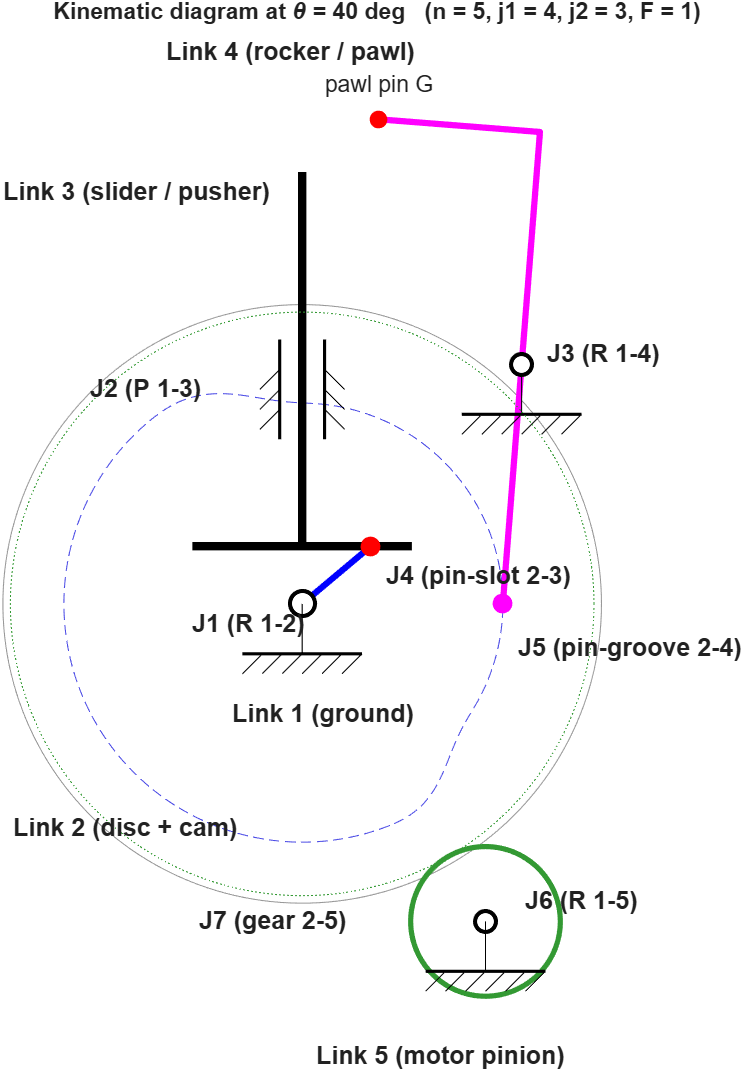
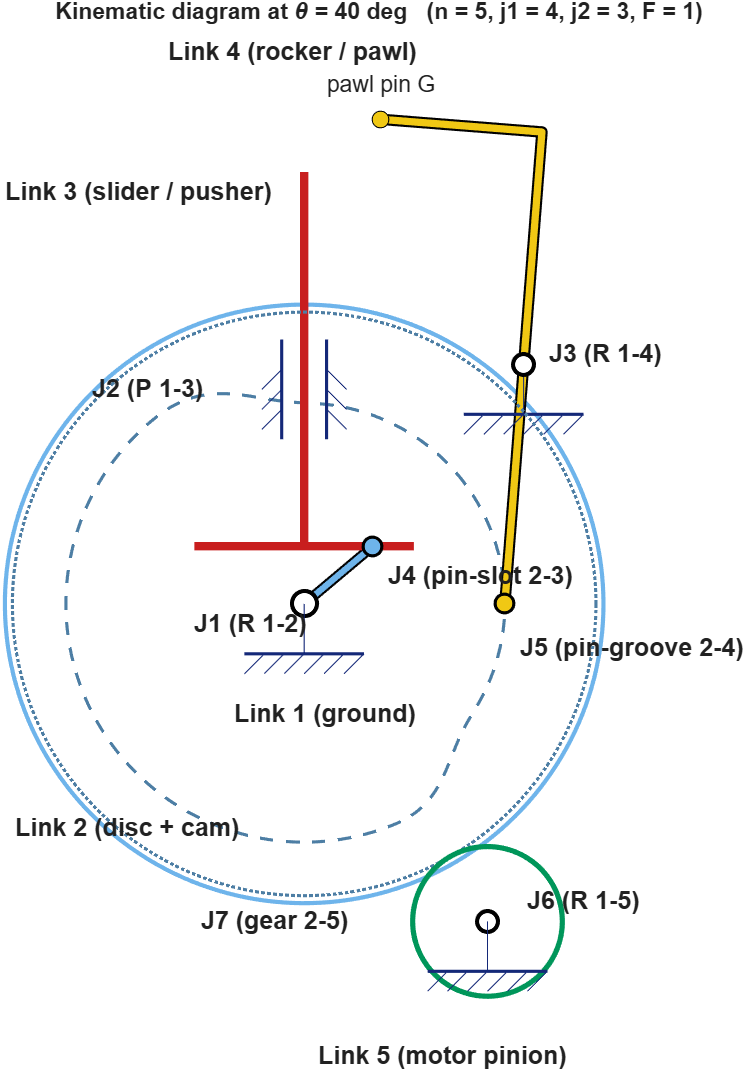
Recolour the Part I kinematic diagram to the as-built part colours

diff --git a/symbolic/kinematic_diagram.m b/symbolic/kinematic_diagram.m
@@ -12,35 +12,41 @@ P = R.P(:,k); T = R.T(:,k); G = R.G(:,k); Hk = R.H(:,k);
 
 f = figure('Position', [100 100 700 900]); theme(f, 'light'); hold on; axis equal off
 tc = linspace(0, 2*pi, 200);
+% Link colours = the colours of the built model (RGB 0..255), same as the Simscape blocks
+cBase = [20 40 120]/255;   cDisc = [110 180 235]/255;   cSlid = [200 30 30]/255;
+cRock = [240 200 20]/255;  cPin  = [0 150 90]/255;
 % Link 2: disc (crank + cam groove)
-plot(mm*p.Rd*cos(tc), mm*p.Rd*sin(tc), 'Color', [0.6 0.6 0.6]);
+plot(mm*p.Rd*cos(tc), mm*p.Rd*sin(tc), 'Color', cDisc, 'LineWidth', 2);
 Cg = [cos(th) -sin(th); sin(th) cos(th)]*R.C;
-plot(mm*Cg(1,:), mm*Cg(2,:), '--', 'Color', [0.3 0.3 0.9]);
-plot(mm*[0 pin(1)], mm*[0 pin(2)], 'b', 'LineWidth', 3);
+plot(mm*Cg(1,:), mm*Cg(2,:), '--', 'Color', cDisc*0.7, 'LineWidth', 1.5);
+plot(mm*[0 pin(1)], mm*[0 pin(2)], 'k', 'LineWidth', 5);                 % dark edge so the pale blue reads on white
+plot(mm*[0 pin(1)], mm*[0 pin(2)], 'Color', cDisc, 'LineWidth', 3);
 % Link 3: slider with horizontal slot; its stem top pushes the coin column
-plot(mm*[0 0], mm*[yS yS + p.stemLen], 'k', 'LineWidth', 4);
-plot(mm*[-p.e - 0.004, p.e + 0.004], mm*[yS yS], 'k', 'LineWidth', 4);
-% Link 4: rocker (pawl)
-plot(mm*[T(1) P(1) Hk(1) G(1)], mm*[T(2) P(2) Hk(2) G(2)], 'm', 'LineWidth', 3);   % "7" hook
-plot(mm*G(1), mm*G(2), 'ro', 'MarkerSize', 8, 'MarkerFaceColor', 'r');
+plot(mm*[0 0], mm*[yS yS + p.stemLen], 'Color', cSlid, 'LineWidth', 4);
+plot(mm*[-p.e - 0.004, p.e + 0.004], mm*[yS yS], 'Color', cSlid, 'LineWidth', 4);
+% Link 4: rocker (pawl), yellow with a dark edge
+rx = mm*[T(1) P(1) Hk(1) G(1)];  ry = mm*[T(2) P(2) Hk(2) G(2)];
+plot(rx, ry, 'k', 'LineWidth', 5.5);                                      % "7" hook, edge
+plot(rx, ry, 'Color', cRock, 'LineWidth', 3.5);                           % "7" hook
+plot(mm*G(1), mm*G(2), 'ko', 'MarkerSize', 8, 'MarkerFaceColor', cRock);
 text(mm*G(1), mm*G(2) + 7, 'pawl pin G', 'FontSize', 11, 'HorizontalAlignment', 'center');
 % Ground: disc bearing, rocker pivot and slider guide
 plot(0, 0, 'ko', 'MarkerSize', 12, 'MarkerFaceColor', 'w', 'LineWidth', 2);
 groundSymbol(0, 0); groundSymbol(mm*P(1), mm*P(2));
 gy = mm*mean(p.guideY); gx = mm*p.stemW/2 + 1;
-plot(-[gx gx], [gy - 10, gy + 10], 'k', [gx gx], [gy - 10, gy + 10], 'k', 'LineWidth', 1.5);
-for s = -5:4:5, plot(-gx - [4 0], [gy + s - 3, gy + s + 1], 'k'); plot(gx + [0 4], [gy + s + 1, gy + s - 3], 'k'); end
+plot(-[gx gx], [gy - 10, gy + 10], 'Color', cBase, 'LineWidth', 1.5); plot([gx gx], [gy - 10, gy + 10], 'Color', cBase, 'LineWidth', 1.5);
+for s = -5:4:5, plot(-gx - [4 0], [gy + s - 3, gy + s + 1], 'Color', cBase); plot(gx + [0 4], [gy + s + 1, gy + s - 3], 'Color', cBase); end
 % Link 5: motor pinion, pitch circles touching at the mesh point
 rg = mm*p.mGear*p.Ng/2; rp = mm*p.mGear*p.Np/2;
 Q = (rg + rp)*[cos(p.gearAng); sin(p.gearAng)];
-plot(rg*cos(tc), rg*sin(tc), ':', 'Color', [0.2 0.6 0.2]);
-plot(Q(1) + rp*cos(tc), Q(2) + rp*sin(tc), 'Color', [0.2 0.6 0.2], 'LineWidth', 2.5);
+plot(rg*cos(tc), rg*sin(tc), ':', 'Color', cDisc*0.7, 'LineWidth', 1.5);      % gear pitch circle on the disc
+plot(Q(1) + rp*cos(tc), Q(2) + rp*sin(tc), 'Color', cPin, 'LineWidth', 2.5);
 plot(Q(1), Q(2), 'ko', 'MarkerSize', 10, 'MarkerFaceColor', 'w', 'LineWidth', 2);
 groundSymbol(Q(1), Q(2));
 % Joints
-plot(mm*pin(1), mm*pin(2), 'ro', 'MarkerSize', 9, 'MarkerFaceColor', 'r');
+plot(mm*pin(1), mm*pin(2), 'ko', 'MarkerSize', 9, 'MarkerFaceColor', cDisc, 'LineWidth', 1.5);   % crank pin (disc)
 plot(mm*P(1), mm*P(2), 'ko', 'MarkerSize', 10, 'MarkerFaceColor', 'w', 'LineWidth', 2);
-plot(mm*T(1), mm*T(2), 'mo', 'MarkerSize', 9, 'MarkerFaceColor', 'm');
+plot(mm*T(1), mm*T(2), 'ko', 'MarkerSize', 9, 'MarkerFaceColor', cRock, 'LineWidth', 1.5);       % follower pin (rocker)
 lab = @(x, y, s) text(x, y, s, 'FontSize', 12, 'FontWeight', 'bold');
 lab(-22, -4, 'J1 (R 1-2)');
 lab(-gx - 38, gy, 'J2 (P 1-3)');
@@ -61,6 +67,7 @@ exportgraphics(f, fullfile(root, 'figures', 'kinematic_diagram.png'), 'Resolutio
 
 function groundSymbol(x0, y0)
 % Hatched ground below a fixed joint at (x0, y0) [mm]
-plot(x0 + [-12 12], y0 - [10 10], 'k', 'LineWidth', 1.5); plot([x0 x0], y0 - [10 0], 'k');
-for s = -12:4:8, plot(x0 + [s s + 4], y0 - [14 10], 'k'); end
+c = [20 40 120]/255;     % ground = base colour
+plot(x0 + [-12 12], y0 - [10 10], 'Color', c, 'LineWidth', 1.5); plot([x0 x0], y0 - [10 0], 'Color', c);
+for s = -12:4:8, plot(x0 + [s s + 4], y0 - [14 10], 'Color', c); end
 end
